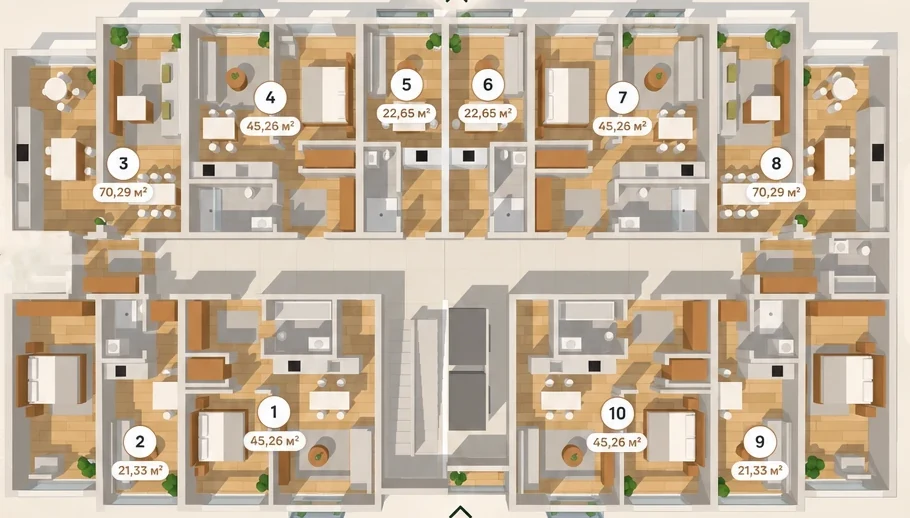
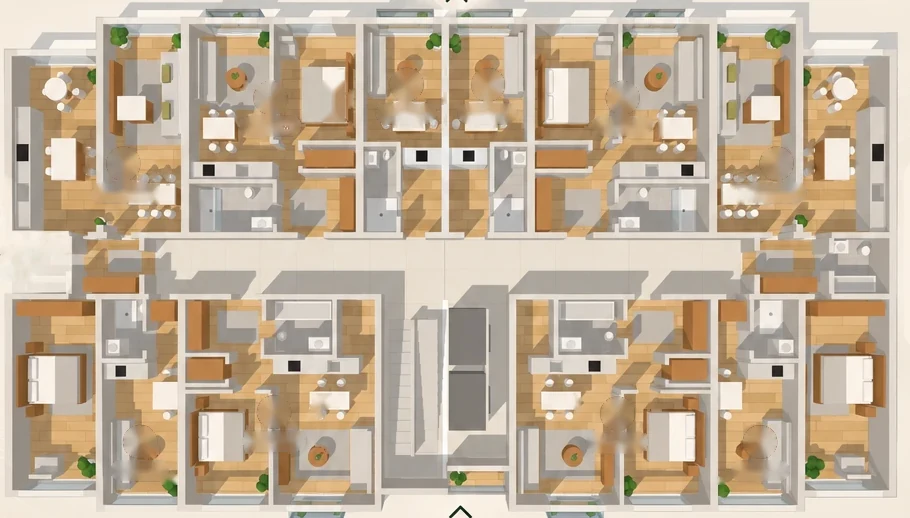
Floor plan: compact badges with areas on phones too
- drawn number circles removed from the plan image, so badges are about half the size
- phones show the area under the number; minimum badge size keeps text inside

diff --git a/src/components/AvailabilityView.tsx b/src/components/AvailabilityView.tsx
@@ -218,13 +218,15 @@ export default function AvailabilityView({ onPick }: {
                           onClick={() => clickable && onPick(project, a)}
                           title={`Кв. ${a.apt} · ${fmtArea(a.area)} м² · окна: ${viewText(a)}`}
                           style={{ left: `${p.x}%`, top: `${p.y}%`, width: `${p.w ?? plan.badge.w}%`, height: `${plan.badge.h}%` }}
-                          className={`absolute -translate-x-1/2 -translate-y-1/2 flex flex-col items-center justify-center rounded-md border-2 leading-tight text-center shadow-md
+                          className={`absolute -translate-x-1/2 -translate-y-1/2 flex flex-col items-center justify-center rounded sm:rounded-md border sm:border-2 leading-tight text-center shadow-md min-w-[29px] min-h-[23px] px-0.5 sm:px-0
                             ${PLAN_STATUS_STYLE[a.status]} ${dim ? 'opacity-40' : ''}`}
                         >
-                          <div className="text-[9px] sm:text-[11px] font-bold whitespace-nowrap">
+                          <div className="text-[9px] sm:text-[11px] font-bold whitespace-nowrap leading-none sm:leading-tight">
                             <span className="hidden sm:inline">{showSea(a) ? '🌊' : ''}№</span>{a.apt}
                           </div>
-                          <div className="hidden sm:block text-[10px] whitespace-nowrap">{fmtArea(a.area)} м²</div>
+                          <div className="text-[7.5px] sm:text-[10px] leading-none sm:leading-tight whitespace-nowrap mt-px">
+                            {fmtArea(a.area)}<span className="hidden sm:inline"> м²</span>
+                          </div>
                         </button>
                       )
                     })}

diff --git a/src/config/floorPlans.ts b/src/config/floorPlans.ts
@@ -34,15 +34,15 @@ const TOWERS_123: FloorPlan = {
   image: `${BASE}/templates/floorplans-floor/towers-b123-floor.webp`,
   aspect: 910 / 518,
   perFloor: 10,
-  // Badge boxes cover the drawn number circle + area pill (areas come from the chessboard)
-  badge: { w: 10.2, h: 12.4 },
+  // The drawn number circles were removed from the image; compact badges sit in their place
+  badge: { w: 6.6, h: 8.6 },
   positions: [
     { pos: 1, x: 31.2, y: 81.5, sides: ['bottom'] },
     { pos: 2, x: 15.4, y: 87.5, sides: ['bottom', 'left'] },
     { pos: 3, x: 13.7, y: 33.6, sides: ['top', 'left'] },
-    { pos: 4, x: 32.5, y: 21.4, sides: ['top'], w: 12.6 },
-    { pos: 5, x: 44.6, y: 18.7, sides: ['top'], w: 8.8 },
-    { pos: 6, x: 53.6, y: 18.7, sides: ['top'], w: 8.8 },
+    { pos: 4, x: 32.5, y: 21.4, sides: ['top'] },
+    { pos: 5, x: 44.6, y: 18.7, sides: ['top'], w: 6.2 },
+    { pos: 6, x: 53.6, y: 18.7, sides: ['top'], w: 6.2 },
     { pos: 7, x: 68.5, y: 21.4, sides: ['top'] },
     { pos: 8, x: 84.8, y: 33.6, sides: ['top', 'right'] },
     { pos: 9, x: 83.2, y: 87.5, sides: ['bottom', 'right'] },
